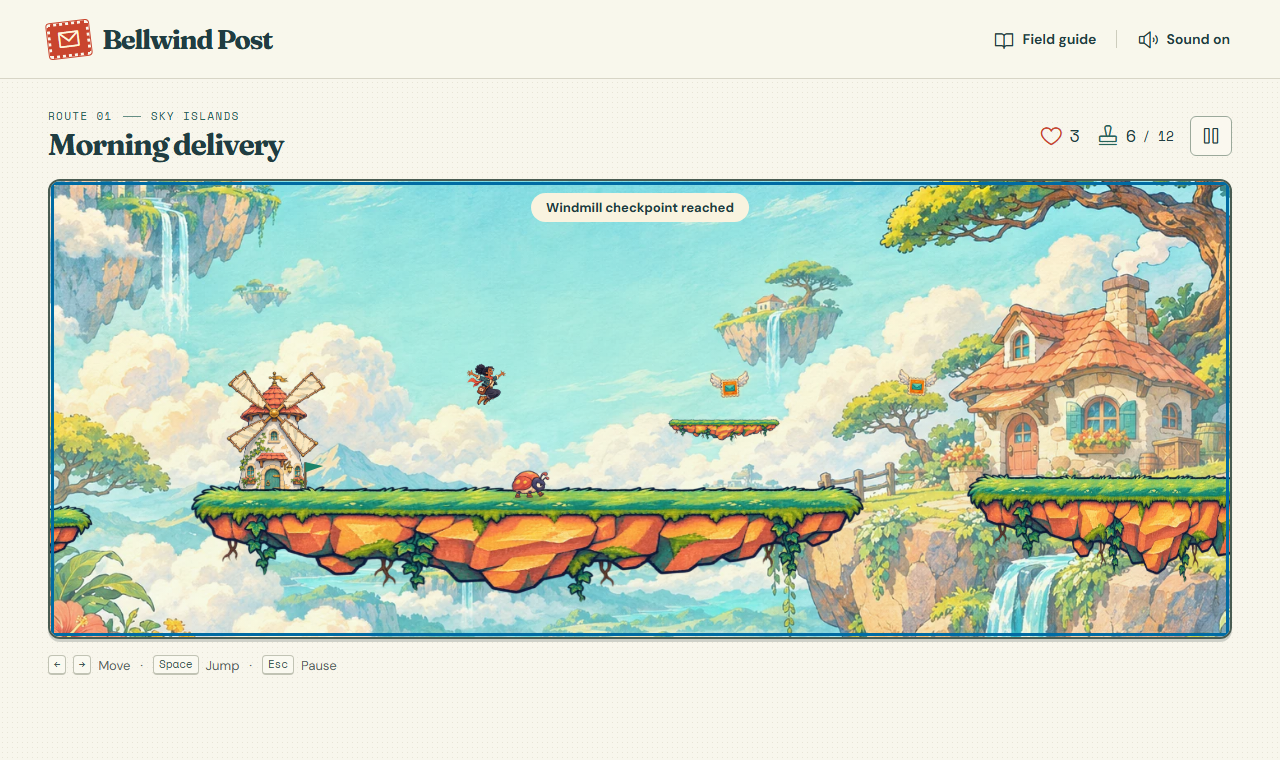
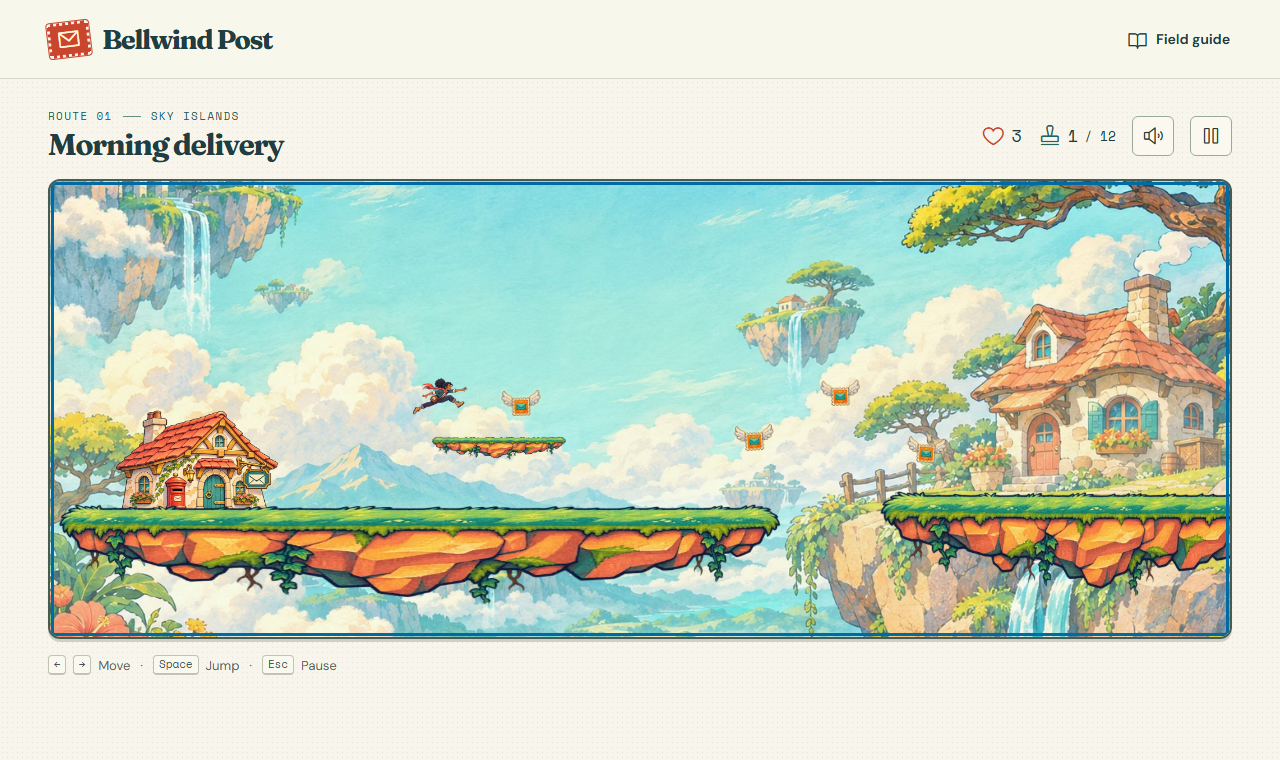
fix: animate courier poses and mark the sky-island route

diff --git a/src/scene.ts b/src/scene.ts
@@ -1,13 +1,14 @@
 import { LEVEL, type GameState } from './game/simulation';
 import { loadGraphics, type Graphics } from './graphics';
-import { cameraLayout, islandSlices } from './scene-layout';
+import { cameraLayout, courierFrame, islandSlices } from './scene-layout';
 
 type Paint = CanvasRenderingContext2D;
 type View = ReturnType<typeof cameraLayout>;
 type Platform = typeof LEVEL.platforms[number];
 
-const CELLS_PER_COURIER = 4;
 const ATLAS_SCALE = 2;
+const POST_OFFICE_HEIGHT = 84;
+const POST_OFFICE_X = LEVEL.spawn.x + 60;
 // Ground contact sits midway down the grass strip (around row 108 of the 320px source).
 const SURFACE_IN_IMAGE = 108 / 320;
 const TAU = Math.PI * 2;
@@ -64,20 +65,19 @@ function drawShadow(ctx: Paint, x: number, y: number, radius: number) {
   ctx.fill();
 }
 
-function drawCourier(ctx: Paint, image: HTMLImageElement, state: GameState) {
+function drawCourier(ctx: Paint, image: HTMLImageElement, state: GameState, reducedMotion: boolean) {
   const { player, ticks } = state;
   const x = player.x + player.w / 2;
   const feet = player.y + player.h;
   if (player.grounded) drawShadow(ctx, x, feet + 0.7, player.w * 0.64);
-  const running = Math.abs(player.vx) > 8;
-  const frame = player.grounded ? (running ? 1 + Math.floor(ticks / 8) % 2 : 0) : 3;
-  const cellWidth = image.width / CELLS_PER_COURIER;
-  const height = player.h * 1.40;
-  const width = height * cellWidth / image.height;
+  const frame = courierFrame(player, ticks, reducedMotion);
+  // Each pose occupies a square cell in a single horizontal strip.
+  const cellSize = image.height;
+  const drawSize = player.h * 1.40;
   ctx.save();
   ctx.translate(x, feet);
   ctx.scale(player.facing, 1);
-  ctx.drawImage(image, frame * cellWidth, 0, cellWidth, image.height, -width / 2, -height, width, height);
+  ctx.drawImage(image, frame * cellSize, 0, cellSize, cellSize, -drawSize / 2, -drawSize, drawSize, drawSize);
   ctx.restore();
 }
 
@@ -152,6 +152,7 @@ export async function createScene(canvas: HTMLCanvasElement) {
     const visible = (x: number) => x >= view.cameraX - 140 && x <= view.cameraX + view.width + 140;
     const time = reducedMotion ? 0 : state.ticks / 60;
     ctx.translate(-view.cameraX, view.offsetY);
+    if (visible(POST_OFFICE_X)) drawAtFeet(ctx, art['post-office'], POST_OFFICE_X, LEVEL.spawn.y + 1, POST_OFFICE_HEIGHT);
     if (visible(LEVEL.checkpoint.x)) drawCheckpoint(ctx, art.windmill, state.checkpoint);
     if (visible(LEVEL.bell.x)) drawAtFeet(ctx, art.bell, LEVEL.bell.x, LEVEL.bell.y + 1, 67);
     LEVEL.platforms.forEach((platform, index) => {
@@ -161,7 +162,7 @@ export async function createScene(canvas: HTMLCanvasElement) {
     });
     drawStamps(ctx, art.stamp, state, visible, time);
     drawBeetles(ctx, art.beetle, state, visible, time);
-    drawCourier(ctx, art[state.hero], state);
+    drawCourier(ctx, art[state.hero], state, reducedMotion);
   }
   return { draw };
 }

diff --git a/tests/unit/game.test.ts b/tests/unit/game.test.ts
@@ -82,15 +82,35 @@ describe('courier movement', () => {
 })
 
 describe('stage rules', () => {
+  it.each([0, 1, 5])('marks the jump across gap %i with an ascent, apex and descent', gap => {
+    const islands = LEVEL.platforms.filter(platform => platform.kind === 'island')
+    const edge = islands[gap].x + islands[gap].w
+    const landing = islands[gap + 1].x
+    const arc = LEVEL.stamps.filter(stamp => stamp.x >= edge - 48 && stamp.x <= landing + 48)
+      .sort((a, b) => a.x - b.x)
+    expect(arc).toHaveLength(3)
+    const [ascent, apex, descent] = arc
+    expect(ascent.x).toBeLessThan(edge)
+    expect(apex.x).toBeGreaterThan(edge)
+    expect(apex.x).toBeLessThan(landing)
+    expect(descent.x).toBeGreaterThan(landing)
+    expect(apex.y).toBeLessThanOrEqual(Math.min(ascent.y, descent.y) - 30)
+  })
+
+  const fullRoute = [45, 121, 230, 341, 431, 477, 591, 643, 706, 783, 833]
   it.each([
     { hero: 'nia', stamps: 10, takeoffs: [121, 230, 341, 416, 496, 591, 643, 706, 783, 833] },
-    { hero: 'finn', stamps: 12, takeoffs: [45, 121, 230, 341, 428, 471, 490, 591, 643, 706, 783, 833] },
+    { hero: 'nia', stamps: 12, takeoffs: fullRoute },
+    { hero: 'finn', stamps: 12, takeoffs: fullRoute },
   ] as const)('lets $hero deliver with $stamps stamps using real controls', ({ hero, stamps, takeoffs }) => {
     const state = createGame(hero)
-    // The second route also visits the two optional rooftop stamps.
+    // The full route also visits the two optional rooftop stamps.
     const jumps = new Set<number>(takeoffs)
+    let releaseAt = 0
     for (let frame = 0; frame < 960 && state.status === 'playing'; frame++) {
-      stepGame(state, { direction: 1, jumpPressed: jumps.has(frame), jumpHeld: true })
+      const jumpPressed = jumps.has(frame)
+      if (jumpPressed) releaseAt = frame + 35
+      stepGame(state, { direction: 1, jumpPressed, jumpHeld: frame < releaseAt })
     }
     expect(state.status).toBe('won')
     expect(state.lives).toBe(3)

diff --git a/tests/unit/art.test.ts b/tests/unit/art.test.ts
@@ -1,0 +1,36 @@
+import { existsSync } from 'node:fs'
+import { afterEach, expect, it, vi } from 'vitest'
+import { loadGraphics } from '../../src/graphics'
+import { courierFrame } from '../../src/scene-layout'
+
+afterEach(() => vi.unstubAllGlobals())
+
+it('loads the bundled post office as part of the playable scene', async () => {
+  vi.stubGlobal('Image', class {
+    src = ''
+    async decode() {
+      expect(existsSync('public' + new URL(this.src, 'http://localhost').pathname)).toBe(true)
+    }
+  })
+  const graphics = await loadGraphics()
+  expect(graphics['post-office']?.src).toMatch(/\/art\/post-office\.webp$/)
+})
+
+it('cycles two grounded idle poses, retaining a steady pose for reduced motion', () => {
+  const idle = { grounded: true, vx: 0, vy: 0 }
+  const frames = (reduced: boolean) => new Set(Array.from({ length: 120 }, (_, tick) =>
+    courierFrame(idle, tick, reduced)))
+  expect(frames(false)).toEqual(new Set([0, 4]))
+  expect(frames(true)).toEqual(new Set([0]))
+})
+
+it('chooses separate ascent, apex and descent poses based on vertical velocity', () => {
+  const air = (vy: number) => courierFrame({ grounded: false, vx: 150, vy }, 0, false)
+  expect([air(-350), air(0), air(280)]).toEqual([3, 5, 6])
+  expect(air(-18)).toBe(air(18))
+})
+
+it('keeps the original run frames and cadence', () => {
+  const running = { grounded: true, vx: -120, vy: 0 }
+  expect([0, 8, 16].map(tick => courierFrame(running, tick, false))).toEqual([1, 2, 1])
+})

diff --git a/src/game/level.ts b/src/game/level.ts
@@ -40,11 +40,10 @@ export const LEVEL = {
   platforms,
   stamps: [
     stamp('yard', 188, 240), stamp('rooftop', 372, 176),
-    stamp('first-gap', 608, 171), stamp('post-road', 874, 230),
-    stamp('blue-gap', 1054, 162), stamp('lookout', 1410, 218),
-    stamp('windmill', 1600, 223), stamp('windmill-roof', 1960, 162),
-    stamp('windward', 2108, 158), stamp('beetle-trail', 2780, 218),
-    stamp('final-crossing', 2950, 168), stamp('bell-approach', 3262, 156),
+    stamp('first-ascent', 556, 204), stamp('first-gap', 624, 168), stamp('first-descent', 692, 211),
+    stamp('blue-ascent', 992, 194), stamp('blue-gap', 1060, 158), stamp('blue-descent', 1128, 201),
+    stamp('windmill-roof', 1960, 162),
+    stamp('final-ascent', 2896, 202), stamp('final-crossing', 2964, 166), stamp('final-descent', 3032, 209),
   ],
   patrols: [
     { id: 'mill', left: 1730, right: 1822, floorY: 250, speed: 34 },

diff --git a/src/scene-layout.ts b/src/scene-layout.ts
@@ -1,3 +1,20 @@
+import type { GameState } from './game/simulation';
+
+const APEX_SPEED = 65;
+const BLINK_PERIOD_TICKS = 104;
+const BLINK_TICKS = 12;
+
+// Atlas order: idle, run A, run B, rising, idle blink, apex, falling.
+export function courierFrame(player: Pick<GameState['player'], 'grounded' | 'vx' | 'vy'>, ticks: number, reducedMotion: boolean) {
+  if (!player.grounded) {
+    if (player.vy < -APEX_SPEED) return 3;
+    if (player.vy > APEX_SPEED) return 6;
+    return 5;
+  }
+  if (Math.abs(player.vx) > 8) return 1 + Math.floor(ticks / 8) % 2;
+  return !reducedMotion && ticks % BLINK_PERIOD_TICKS >= BLINK_PERIOD_TICKS - BLINK_TICKS ? 4 : 0;
+}
+
 const WORLD_VIEW_HEIGHT = 360;
 const MIN_VIEW_WIDTH = 400;
 const CAMERA_LEAD = 0.37;

diff --git a/src/graphics.ts b/src/graphics.ts
@@ -1,4 +1,4 @@
-const ART_NAMES = ['sky', 'island', 'windmill', 'nia', 'finn', 'beetle', 'stamp', 'bell'] as const;
+const ART_NAMES = ['sky', 'island', 'post-office', 'windmill', 'nia', 'finn', 'beetle', 'stamp', 'bell'] as const;
 
 type ArtName = typeof ART_NAMES[number];
 export type Graphics = Record<ArtName, HTMLImageElement>;

diff --git a/docs/character-art.md b/docs/character-art.md
@@ -1,6 +1,26 @@
 # Courier and prop artwork
 
-Generated with the built-in ImageGen tool. The tool does not expose a model identifier. All six generations requested a transparent background. The sprite sheets share one scale per courier, with each pose aligned to a common foot baseline in a 96 × 96 cell. Each portrait is cropped from the matching idle pose.
+Generated with built-in ImageGen using transparent backgrounds. The tool does not expose a model ID. Each portrait is cropped from the matching idle pose.
+
+## Additional idle and jump poses
+
+The seven-cell atlases include the original standing, run, and rising poses in cells 0–3. Built-in ImageGen produced the idle blink, jump apex, and descent poses in cells 4–6 using each courier’s original full-resolution sheet as its identity reference. Each frame occupies a 96 × 96 cell. The standing and blink poses share a ground-contact baseline.
+
+### nia.webp
+
+Use case: identity-preserve. Reference image: the existing four gameplay poses for Nia. Create a supplemental animation sheet with exactly THREE SEPARATE full-body drawings of this same courier in one horizontal row on native transparent alpha. Keep this character's exact age, face, proportions, skin tone, hair, scarf, jacket, boots, postal satchel, handed costume details, illustration texture, lighting, and right-facing side view. Keep uniform anatomical scale, as if the frames were traced from a character turnaround. First third: a very small idle variant of the reference's top-left standing pose. Same planted boots, same leg position and body pose; character blinks, breathes out, shoulders relax, and tips of scarf lift gently in a breeze. Middle third: jump at its apex, body gently curled, knees drawn in, arms spread for balance and scarf floating outward. Last third: distinctly different descent pose, boots point toward the ground, knees ready to land, arms raised and scarf curves upward from downward motion. Three fully visible figures, centered one per third of a wide canvas. Leave wide, completely transparent gutters; each pose must be entirely separated. No typography, dividers, ground, shadows or props outside the figures.
+
+Final apex pose prompt:
+
+Use case: identity-preserve. Source reference: original game sprite sheet showing Nia, the brown-skinned courier with curly puff and red scarf in the reference. Draw ONE clearly new full-body game animation cel of this exact courier at the suspended crest of a jump, facing the RIGHT. The air rushes past the scarf. Distinct new silhouette: lean torso well forward, front arm reaching straight forward horizontally toward the next ledge at chest height; back arm extended behind the hip for balance. Leading knee raised ahead, other leg extends away behind to the left. Make a graceful split-leap silhouette in midflight, roughly as wide as tall, different from the reference's tucked-knees arms-open jump. Recognizably the same person, clothes, satchel, boots, face, hair, navy ink, gouache texture, palette, right-facing side view and proportions of the supplied reference. Show entire feet and outstretched hand, 8 percent breathing room on all sides. Isolated individual cel on a transparent background; no other poses, ground, shadows, typography or effects.
+
+### finn.webp
+
+Use case: identity-preserve. Reference image: the existing four gameplay poses for Finn. Create a supplemental animation sheet with exactly THREE SEPARATE full-body drawings of this same courier in one horizontal row on native transparent alpha. Keep this character's exact age, face, proportions, skin tone, hair, scarf, jacket, boots, postal satchel, handed costume details, illustration texture, lighting, and right-facing side view. Keep uniform anatomical scale, as if the frames were traced from a character turnaround. First third: a very small idle variant of the reference's top-left standing pose. Same planted boots, same leg position and body pose; character blinks, breathes out, shoulders relax, and tips of scarf lift gently in a breeze. Middle third: jump at its apex, body gently curled, knees drawn in, arms spread for balance and scarf floating outward. Last third: distinctly different descent pose, boots point toward the ground, knees ready to land, arms raised and scarf curves upward from downward motion. Three fully visible figures, centered one per third of a wide canvas. Leave wide, completely transparent gutters; each pose must be entirely separated. No typography, dividers, ground, shadows or props outside the figures.
+
+Final apex pose prompt:
+
+Use case: identity-preserve. Source reference: original game sprite sheet showing Finn, the courier in the mustard cap and teal scarf in the reference. Draw ONE clearly new full-body game animation cel of this exact courier at the suspended crest of a jump, facing the RIGHT. The air rushes past the scarf. Distinct new silhouette: lean torso well forward, front arm reaching straight forward horizontally toward the next ledge at chest height; back arm extended behind the hip for balance. Leading knee raised ahead, other leg extends away behind to the left. Make a graceful split-leap silhouette in midflight, roughly as wide as tall, different from the reference's tucked-knees arms-open jump. Recognizably the same person, clothes, satchel, boots, face, hair, navy ink, gouache texture, palette, right-facing side view and proportions of the supplied reference. Show entire feet and outstretched hand, 8 percent breathing room on all sides. Isolated individual cel on a transparent background; no other poses, ground, shadows, typography or effects.
 
 ## couriers.webp
 

diff --git a/docs/environment-art.md b/docs/environment-art.md
@@ -2,6 +2,10 @@
 
 Generated with built-in ImageGen. The tool does not return a model ID. The game bundles the following WebP exports.
 
+## public/art/post-office.webp
+
+Use case: stylized-concept. Reference image: use this existing illustrated windmill solely as a reference for Bellwind Post's materials, ink and gouache painting style and warm side lighting. Draw a NEW game sprite of one charming little hilltop village POST OFFICE. A squat, wide, one-story cream-stucco cottage with a steep coral tiled roof, teal door and ochre timber trim. A large distinctive teal or vermilion hanging sign with a bold cream envelope pictogram to the right of the door. A bright red freestanding postal pillar letterbox on the other side, with a visible black letter slot. Draw the sign and letterbox large enough to read at miniature gameplay scale. Friendly front three-quarter exterior viewed from the side of a platform game; a straight horizontal foundation at ground level. No windmill blades. Full building isolated on an actual transparent background, no attached island or lawn, no lettering or people. Center the whole asset with clear margins.
+
 ## public/art/sky.webp
 
 Use case: illustration-story. Asset type: wide side-scrolling 2D video game background, also an immersive illustrated title-screen banner. Production quality colorful hand-painted travel poster set in a whimsical sky archipelago. Landscape panoramic horizontal 3:2 or wider. Luminous light mint and sky blue open sky with cream cumulus piled at the lower horizon, faraway layered teal mountains, picturesque little floating islands with chunky illustrated cliff faces, flowing waterfalls and a tiny coral-roofed postal cottage, sculpted umbrella-shaped trees and puffs of leafy vegetation at varied distances. A few most detailed islands toward right/lower edges; middle-upper field is open sky for overlaying game characters. Intricate warm gouache and vintage 1930s travel print texture, fine subdued navy pen contours, rich saturated coral, yellow ochre and turquoise accents, misty blue-green distance. Whimsical high-quality collectible animation key visual. Side-on world, sense of height and morning adventure, natural painterly cloud shapes, no letters, text, signs, logos, characters, UI, horizontal ground strip or border. Full bleed opaque artwork.
